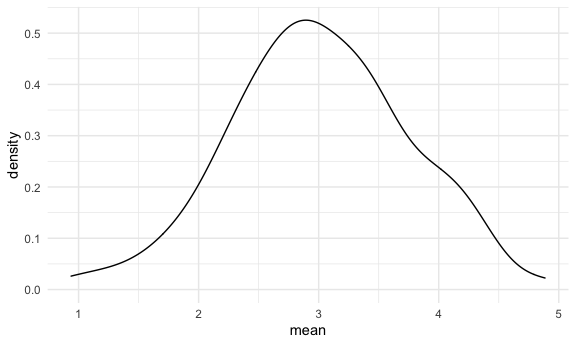
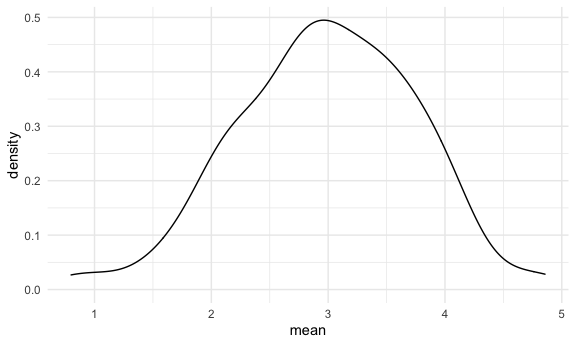
we did simulations!!

diff --git a/simulation.md b/simulation.md
@@ -31,7 +31,7 @@ sim_mean_sd(30)
     ## # A tibble: 1 x 2
     ##    mean    sd
     ##   <dbl> <dbl>
-    ## 1  3.45  4.77
+    ## 1  3.33  3.70
 
 ## Let’s simulate a lot
 
@@ -52,16 +52,16 @@ bind_rows(output)
     ## # A tibble: 100 x 2
     ##     mean    sd
     ##    <dbl> <dbl>
-    ##  1  2.35  3.19
-    ##  2  4.16  2.97
-    ##  3  3.85  4.37
-    ##  4  3.14  3.56
-    ##  5  3.87  3.80
-    ##  6  2.34  3.89
-    ##  7  2.78  3.98
-    ##  8  2.55  4.53
-    ##  9  1.73  4.53
-    ## 10  3.16  3.25
+    ##  1  3.53  3.18
+    ##  2  3.44  3.84
+    ##  3  3.45  3.53
+    ##  4  1.68  3.69
+    ##  5  3.95  4.22
+    ##  6  3.27  4.34
+    ##  7  2.05  4.05
+    ##  8  3.10  3.72
+    ##  9  3.55  4.11
+    ## 10  3.87  3.79
     ## # … with 90 more rows
 
 Let’s use a loop function.
@@ -92,7 +92,7 @@ sim_results %>%
     ## # A tibble: 1 x 2
     ##   avg_samp_mean sd_samp_mean
     ##           <dbl>        <dbl>
-    ## 1          3.00        0.744
+    ## 1          2.98        0.756
 
 ``` r
 sim_results %>% 
@@ -100,3 +100,74 @@ sim_results %>%
 ```
 
 <img src="simulation_files/figure-gfm/unnamed-chunk-5-2.png" width="90%" />
+
+## Let’s try other sample sizes.
+
+``` r
+n_list = 
+  list(
+    "n_30"  = 30, 
+    "n_60"  = 60, 
+    "n_120" = 120, 
+    "n_240" = 240
+  )
+
+output = vector("list", length = 4)
+
+output[[1]] = rerun(100, sim_mean_sd(n_list[[1]])) %>% bind_rows()
+output[[2]] = rerun(100, sim_mean_sd(n_list[[2]])) %>% bind_rows()
+
+for (i in 1:4) {
+  
+  output[[i]] =
+    rerun(100, sim_mean_sd(n_list[[i]])) %>% 
+    bind_rows()
+  
+}
+```
+
+``` r
+sim_results =
+  tibble(
+    sample_size = c(30, 60, 120, 240)
+  ) %>% 
+    mutate(
+      output_lists = map(.x = sample_size, ~rerun(1000, sim_mean_sd(.x))),
+      estimate_df = map(output_lists, bind_rows)
+    ) %>% 
+    select(-output_lists) %>% 
+    unnest(estimate_df)
+```
+
+Do some data frame things.
+
+``` r
+sim_results %>% 
+  mutate(
+    sample_size = str_c("n = ", sample_size),
+    sample_size = fct_inorder(sample_size)
+  ) %>% 
+  ggplot(aes(x = sample_size, y = mean)) +
+  geom_violin()
+```
+
+<img src="simulation_files/figure-gfm/unnamed-chunk-8-1.png" width="90%" />
+
+``` r
+sim_results %>% 
+  group_by(sample_size) %>% 
+  summarize(
+    avg_samp_mean = mean(mean),
+    sd_samp_mean = sd(mean)
+  )
+```
+
+    ## `summarise()` ungrouping output (override with `.groups` argument)
+
+    ## # A tibble: 4 x 3
+    ##   sample_size avg_samp_mean sd_samp_mean
+    ##         <dbl>         <dbl>        <dbl>
+    ## 1          30          3.00        0.703
+    ## 2          60          3.02        0.523
+    ## 3         120          3.00        0.377
+    ## 4         240          3.00        0.261
